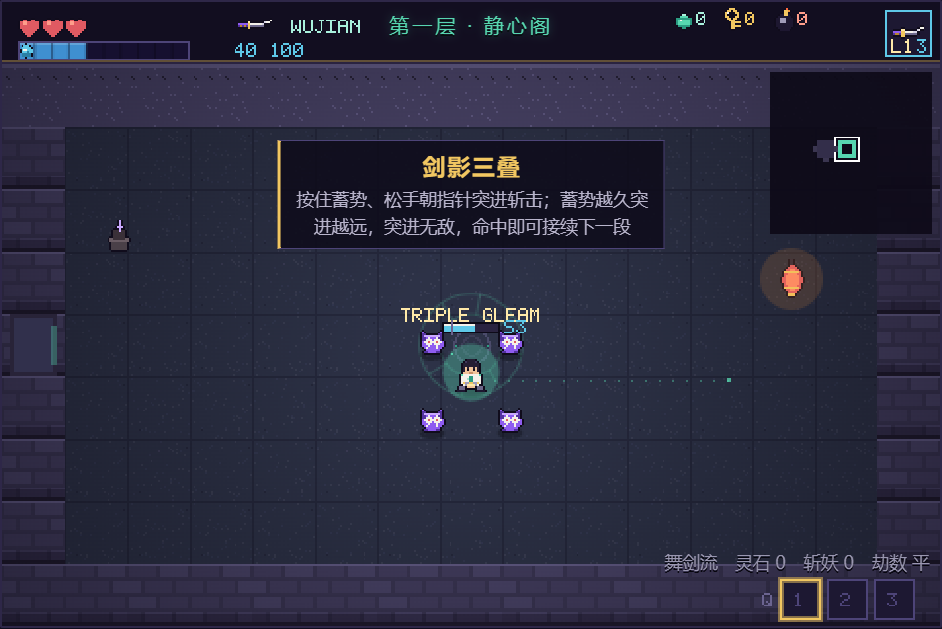
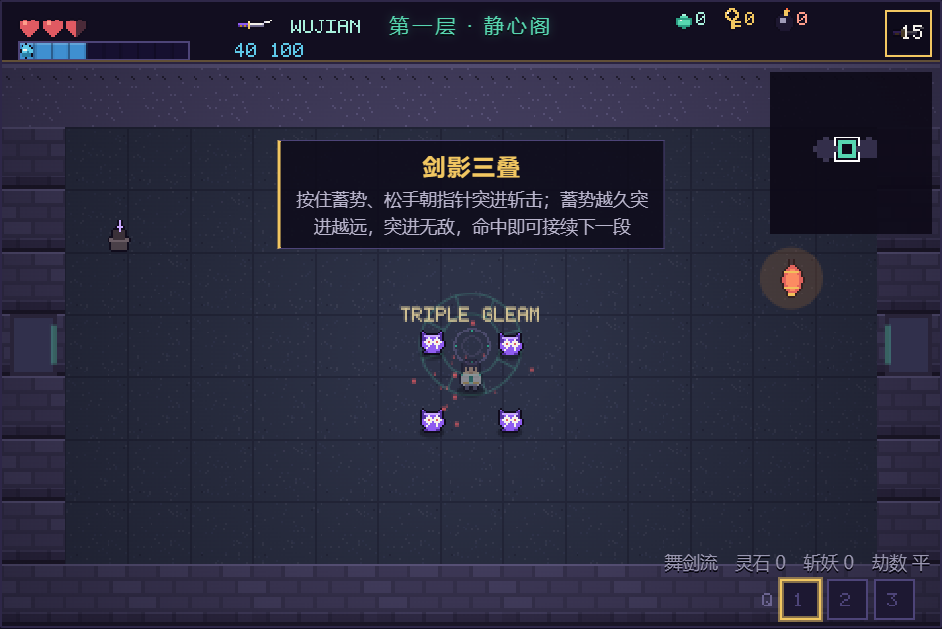
舞剑流蓄势期不再自带无敌：起手与接招同口径，无敌只留在五连斩收招余韵
接招期（连段窗口内）的蓄势免伤会让玩家从「看准了再上」退化成「随时贴上去蓄」，贴脸博弈消失，故撤掉；五连斩收招的 15 帧余韵保留。

同步更新 T17 断言、逐帧探针 _probe_flurry.js、截图脚本与资源表变更日志/风险口径。

diff --git a/_t_skill.js b/_t_skill.js
@@ -807,9 +807,8 @@ function sec(t) { console.log('\n=== ' + t + ' ==='); }
       out.interrupted = wasCharging && !k.wjCharging;
       out.cdAfterInterrupt = Math.round(k.ultCd);
 
-      // ---- 接招期的蓄势不再被打断（只有起手那一记才是赌注）----
-      // 实测反馈：三段要接的时候人已经贴在怪堆里，被杂兵摸一下就是剑势溃散 +
-      // 技能进完整冷却，五连斩根本砍不出来。现在 wjStage > 0 时蓄势自带无敌。
+      // ---- 接招期的蓄势同样会被打断：无敌只留在五连斩的收招余韵上 ----
+      // 设计取舍：接招窗口若也免伤，玩家就白拿半秒无敌，「什么时候贴上去」的博弈没有了。
       G.newRun('wujian');
       const k2 = G.player; k2.giveUlt('wujian'); k2.ultCd = 0; k2.invuln = 0;
       G.enemies.length = 0;
@@ -817,29 +816,39 @@ function sec(t) { console.log('\n=== ' + t + ' ==='); }
       const hpBeforeChain = k2.hp;
       inp.mouseSeen = true; inp.mx = k2.x + 60; inp.my = k2.y;
       G.useUlt();
+      const chainWasCharging = k2.wjCharging;
+      G.update();                                     // 推进一帧蓄势：这一步不该自带无敌
+      out.chainIdleInvuln = k2.invuln;
       for (let i = 0; i < 12; i++) { G.update(); k2.takeDamage(1, G); }
-      out.chainCharging = k2.wjCharging;
-      out.chainHpKept = k2.hp === hpBeforeChain;
+      out.chainInterrupted = chainWasCharging && !k2.wjCharging;
+      out.chainHpLost = k2.hp < hpBeforeChain;
       out.chainCd = Math.round(k2.ultCd);
-      out.chainInvuln = k2.invuln;
-      // 松手后五连斩必须完整砍出 5 刀，且全程无「状态在技能里、invuln 却为 0」的空窗
+
+      // ---- 不被打扰时，五连斩必须完整砍出 5 刀，且全程无「状态在技能里、invuln 却为 0」的空窗
+      G.newRun('wujian');
+      const k2b = G.player; k2b.giveUlt('wujian'); k2b.ultCd = 0; k2b.invuln = 0;
+      G.enemies.length = 0;
+      k2b.wjStage = 2; k2b.wjChainT = 999;
+      inp.mouseSeen = true; inp.mx = k2b.x + 60; inp.my = k2b.y;
+      G.useUlt();
+      for (let i = 0; i < 12; i++) G.update();        // 蓄满，不注入任何伤害
       const t3b = new Enemy('guixiu', 0, 0, 1);
       t3b.spawnT = 0; t3b.maxHp = 999999; t3b.hp = 999999;
       t3b.speed = 0; t3b.cd = 99999; t3b.touch = 0;
       G.enemies.push(t3b);
       G.ultUp();
-      out.chainDashStage = k2.dashStage;
+      out.chainDashStage = k2b.dashStage;
       let prevB = t3b.hp, hitsB = 0, riskB = 0;
       for (let i = 0; i < 90; i++) {
         G.update();
-        if ((k2.dashing || k2.dashFlurry > 0) && k2.invuln <= 0) riskB++;
-        t3b.x = k2.x + 30; t3b.y = k2.y;              // 钉在身前，数得清刀数
+        if ((k2b.dashing || k2b.dashFlurry > 0) && k2b.invuln <= 0) riskB++;
+        t3b.x = k2b.x + 30; t3b.y = k2b.y;            // 钉在身前，数得清刀数
         if (t3b.hp < prevB) { hitsB++; prevB = t3b.hp; }
-        if (!k2.dashing && k2.dashFlurry <= 0) break;
+        if (!k2b.dashing && k2b.dashFlurry <= 0) break;
       }
       out.chainFlurryHits = hitsB;
       out.chainRiskFrames = riskB;
-      out.graceInvuln = k2.invuln;                    // 收招余韵
+      out.graceInvuln = k2b.invuln;                   // 收招余韵
       out.flurryGrace = WJ.flurryGrace;
 
       // ---- 起手（wjStage = 0）仍不给无敌：赌注留在「敢不敢贴上去」这一步 ----
@@ -997,15 +1006,14 @@ function sec(t) { console.log('\n=== ' + t + ' ==='); }
        `stage=${r.expiredStage} cd=${r.expiredCd}`);
     ok('起手蓄势中挨打 → 剑势溃散', r.interrupted === true);
     ok('被打断后技能立刻进冷却', r.cdAfterInterrupt === 900, r.cdAfterInterrupt + ' 帧 = 15 秒');
-    ok('接招期的蓄势挨打不再溃散（第三段必须能接出来）',
-       r.chainCharging === true && r.chainCd === 0,
-       `蓄势中=${r.chainCharging} cd=${r.chainCd}`);
-    ok('接招期蓄势挨打不掉血（该窗口有连续无敌）',
-       r.chainHpKept === true && r.chainInvuln > 0,
-       `血量未变=${r.chainHpKept} invuln=${r.chainInvuln}`);
-    ok('起手那一记仍不给无敌（赌注留在「敢不敢贴上去」）',
+    ok('接招期的蓄势不带无敌（贴脸的博弈留给玩家）',
+       r.chainIdleInvuln === 0, 'invuln=' + r.chainIdleInvuln);
+    ok('接招期蓄势挨打照样溃散 + 进完整冷却',
+       r.chainInterrupted === true && r.chainHpLost === true && r.chainCd > 850,
+       `溃散=${r.chainInterrupted} 掉血=${r.chainHpLost} cd=${r.chainCd}`);
+    ok('起手那一记也不给无敌（赌注留在「敢不敢贴上去」）',
        r.openingInvuln === 0, 'invuln=' + r.openingInvuln);
-    ok('接招蓄势全程挨打后，五连斩照样砍满 5 刀',
+    ok('不受打扰时，五连斩照样砍满 5 刀',
        r.chainDashStage === 2 && r.chainFlurryHits === 5,
        `段位 ${r.chainDashStage} / ${r.chainFlurryHits} 刀`);
     ok('突进与五连斩期间没有「技能中却无无敌」的空窗',

diff --git a/_probe_flurry.js b/_probe_flurry.js
@@ -4,9 +4,9 @@
    实测发现根因不在五连斩（那段本来就全程无敌），而在「蓄势半秒」：
    接招时人已贴在怪堆里，被杂兵摸一下就是剑势溃散 + 技能进完整冷却，第三段根本放不出来。
    本脚本对照三条路径：
-     A 起手蓄势（wjStage = 0）挨打 —— 应保留赌注：溃散、技能进 CD
-     B 接招蓄势（wjStage = 1）挨打 —— 应免伤、不溃散
-     C 第三段接招中连续挨打后松手 —— 五连斩应完整砍出 5 刀
+     A 起手蓄势（wjStage = 0）挨打 —— 溃散、技能进 CD
+     B 接招蓄势（wjStage = 1）挨打 —— 与起手同口径，一样溃散（不给无敌，博弈留给玩家）
+     C 第三段接招中蓄满松手 —— 五连斩应完整砍出 5 刀，收招还带一小段余韵
    另附空旷 / 贴墙两种落点，确认突进撞墙也照样接得上五连斩。 */
 const { chromium } = require('playwright');
 const path = require('path');
@@ -37,7 +37,7 @@ const FILE = 'file:///' + path.resolve(__dirname, 'index.html').replace(/\\/g, '
   });
   console.log('A 起手蓄势挨打：', JSON.stringify(a), '（期望 charging=false、cd=900、stage=0 —— 赌注保留）');
 
-  /* ---- B：接招蓄势（第二段待发）挨打若干次 ---- */
+  /* ---- B：接招蓄势（第二段待发）挨打 —— 与起手同口径，照样溃散 ---- */
   const b = await page.evaluate(() => {
     const G = window.Game;
     G.newRun('wujian');
@@ -47,35 +47,34 @@ const FILE = 'file:///' + path.resolve(__dirname, 'index.html').replace(/\\/g, '
     p.wjStage = 1; p.wjChainT = 999;
     input.mouseSeen = true; input.mx = 300; input.my = 160;
     G.useUlt();
-    const invs = [], hps = [];
-    for (let i = 0; i < 12; i++) {
-      G.update();                         // 玩家 tick 先跑（含续无敌）
-      p.takeDamage(1, G);                 // 敌人在其后结算伤害
-      invs.push(p.invuln); hps.push(p.hp);
-    }
-    return { invs, hps, charging: p.wjCharging, cd: Math.round(p.ultCd), stage: p.wjStage };
+    const was = p.wjCharging;
+    G.update();                            // 推进一帧蓄势：这一步不该自带无敌
+    const idleInv = p.invuln, hp0 = p.hp;
+    p.takeDamage(1, G);
+    return { idleInv, wasCharging: was, charging: p.wjCharging, hurt: p.hp < hp0,
+             cd: Math.round(p.ultCd), stage: p.wjStage };
   });
-  console.log('B 接招蓄势挨打：', `蓄势中=${b.charging} 段位=${b.stage} cd=${b.cd}`,
-    `| 蓄势期 invuln=${b.invs.join(',')}（期望恒 > 0）`,
-    `| 血量 ${b.hps[0]}→${b.hps[b.hps.length - 1]}（期望不掉）`);
+  console.log('B 接招蓄势挨打：', `蓄势期 invuln=${b.idleInv}（期望 0，不给无敌）`,
+    `| 蓄势中=${b.charging} 掉血=${b.hurt} 段位=${b.stage} cd=${b.cd}`,
+    '（期望 charging=false、cd≈900 —— 与起手同口径）');
 
-  /* ---- C：第三段接招中连续挨打，仍要砍满五刀 ---- */
-  for (const [label, nearWall] of [['空旷处', false], ['贴墙（突进撞墙收势）', true]]) {
+  /* ---- C：第三段接招中蓄满松手，五刀要一刀不少 ---- */
+  for (const [label, nearWall] of [['空旷处', false], ['贴墙起手', true]]) {
     const c = await page.evaluate(({ nearWall }) => {
       const G = window.Game;
       G.newRun('wujian');
       const p = G.player;
       p.giveUlt('wujian'); p.ultCd = 0; p.invuln = 0;
-      p.x = nearWall ? 430 : 150; p.y = 160;
+      p.x = nearWall ? 455 : 150; p.y = 160;
       G.enemies.length = 0;
-      const tg = new Enemy('guixiu', p.x + 70, 160, 1);     // 厚靶：数五连斩刀数
+      const tg = new Enemy('guixiu', p.x - 70, 160, 1);     // 厚靶：数五连斩刀数（位置每帧会被钉住）
       tg.spawnT = 0; tg.maxHp = 999999; tg.hp = 999999;
       tg.speed = 0; tg.cd = 99999; tg.touch = 0;
       G.enemies.push(tg);
       p.wjStage = 2; p.wjChainT = 999;                      // 第三段待发
       input.mouseSeen = true; input.mx = nearWall ? 470 : 300; input.my = 160;
       G.useUlt();
-      for (let i = 0; i < 30; i++) { G.update(); p.takeDamage(1, G); }   // 蓄势全程持续挨打
+      for (let i = 0; i < 30; i++) G.update();              // 蓄满，不注入伤害
       const stillCharging = p.wjCharging, hpMid = p.hp;
       G.ultUp();
       const dashStage = p.dashStage, dashT0 = p.dashT;

diff --git a/src/entities.js b/src/entities.js
@@ -2137,11 +2137,9 @@ const STYLES = {
       if (pl.dashFlurry > 0) STYLES.wujian.tickFlurry(pl, g);
     },
     tickCharge(pl, g) {
-      /* 接招期的蓄势不再被打断：一段命中之后玩家已经贴在怪堆里了，接下来那半秒
-         只要被杂兵摸一下就「剑势溃散 + 技能进完整冷却」，第三段的五连斩根本砍不出来。
-         起手那一记仍保留这条赌注（wjStage === 0 时不给无敌）—— 「敢不敢贴上去」
-         才是这套流派的性格所在，连上之后该让它连完。 */
-      if (pl.wjStage > 0) pl.invuln = Math.max(pl.invuln, 2);
+      /* 蓄势期一律不无敌，接招那一记也不例外：连段窗口自带无敌的话，玩家就从
+         「看准了再上」退化成「随时贴上去蓄」，和怪贴脸的博弈整个消失。
+         唯一的缓冲留在五连斩收招的余韵（见 tickFlurry）—— 那是砍完之后的事。 */
       const rate = STYLES.wujian.chargeRate(pl.stats, pl);
       pl.wjChargeT = Math.min(WJ.charge, pl.wjChargeT + rate);
       if (!pl.wjFull && pl.wjChargeT >= WJ.charge) {

diff --git a/_shot_flurry.js b/_shot_flurry.js
@@ -1,6 +1,6 @@
 'use strict';
-/* 接招期蓄势的无敌：第三段待发时被四只小怪贴身围住蓄势，血量纹丝不动、蓄势条照涨。
-   对照图是同场景的「起手蓄势」（wjStage = 0）—— 那才是赌注所在，会被打断。 */
+/* 蓄势期的取舍：接招（第三段待发）与起手（第一段待发）一样会被贴脸的小怪摸断，
+   两张图的蓄势条都会当场清空 —— 无敌只留在五连斩的收招余韵上，不在蓄势里。 */
 const { chromium } = require('playwright');
 const path = require('path');
 const FILE = 'file:///' + path.resolve(__dirname, 'index.html').replace(/\\/g, '/');

diff --git a/_sync_sheet.py b/_sync_sheet.py
@@ -693,11 +693,12 @@ def tab_player():
                             "同步伸缩 —— 短突进位移小、无敌时间也短（撞墙会当场收势）；"
                             "蓄势时 HUD 槽上有下限刻度，地上沿指针点出落点预览"
                             % (uwj["dashMin"], uwj["dash"], uwj["durMin"], uwj["dur"])])
-        rows.append(["说明", "舞剑流风险：起手蓄势被打断 → 剑势溃散、立刻进冷却；命中后未在窗口内接招 → "
-                            "连招归零、冷却回满。只有低于 %d 帧（≈ %.2f 秒）的点按算误触，"
-                            "收势、不位移、也不收冷却。而「已经连上的招」不会被摸断 —— "
-                            "一段命中后的接招蓄势自带无敌，三段突进与落脚的五连斩全程无敌、"
-                            "收招再留 %d 帧余韵，保证五连斩一定砍得出来"
+        rows.append(["说明", "舞剑流风险：蓄势被打断 → 剑势溃散、立刻进冷却 —— 起手那一记与连段"
+                            "接招的那一记同口径，连上之后照样要贴上去重新蓄，不存在「连上了就白拿"
+                            "半秒无敌」；命中后未在窗口内接招 → 连招归零、冷却回满。"
+                            "只有低于 %d 帧（≈ %.2f 秒）的点按算误触，收势、不位移、也不收冷却。"
+                            "留给玩家的缓冲全在收招那一段：三段突进与落脚的五连斩全程无敌，"
+                            "砍完再留 %d 帧余韵，保证五连斩一定砍得出来"
                             % (uwj["chargeMin"], uwj["chargeMin"] / 60,
                                D["skillConst"]["WJ"]["flurryGrace"])])
     rows.append(["说明", "舞剑流的蓄势速度与巨剑流同口径（fireRate / 2.6），故「灵犀玉佩」这类射速法宝两头都吃到"])
@@ -708,14 +709,15 @@ def tab_player():
 def tab_log():
     head = ["日期", "版本/改动", "涉及", "同步内容", "操作人"]
     rows = [head,
-            ["2026-09-16", "接招期的蓄势不再被打断（保证三段五连斩砍得出来）+ 五连斩收招余韵",
+            ["2026-09-16", "舞剑流蓄势期一律不给无敌（起手 / 接招同口径）+ 五连斩收招余韵",
              "实机反馈：第三段的五刀「砍出来之前有可能会被打断」。逐帧探针（_probe_flurry.js）查明，"
              "五连斩本身没问题 —— 突进与五连斩全程都有无敌，五刀一刀不少；"
              "真正吞掉第三段的是它前面那半秒蓄势：连段接招时人已经贴在怪堆里，"
              "被杂兵随手摸一下就「剑势溃散 + 技能进完整冷却」，两段铺垫全白费。"
-             "现在接招期（连段窗口内，wjStage > 0）的蓄势自带无敌，不会再被摸断；"
-             "起手那一记仍保留赌注（wjStage = 0 时不给无敌），不然「敢不敢贴上去」的性格就没了。"
-             "另给五连斩收招加了 %d 帧余韵无敌：五刀砍完时人正在怪堆正中，"
+             "期间一度给接招期的蓄势加上无敌，实机权衡后撤掉：连段窗口自带半秒免伤的话，"
+             "玩家就从「看准了再上」退化成「随时贴上去蓄」，和怪贴脸的博弈整个消失。"
+             "现在蓄势期一律不无敌（起手那一记与接招那一记同一口径），"
+             "唯一的缓冲留在五连斩收招的 %d 帧余韵 —— 五刀砍完时人正在怪堆正中，"
              "一点缓冲都不给会当场被围殴按死" % D["skillConst"]["WJ"]["flurryGrace"],
              "「专属技能」页与「流派玩家」页更新舞剑流风险口径；资源表导出新增 WJ 常量块；"
              "「变更日志」新增本条",
